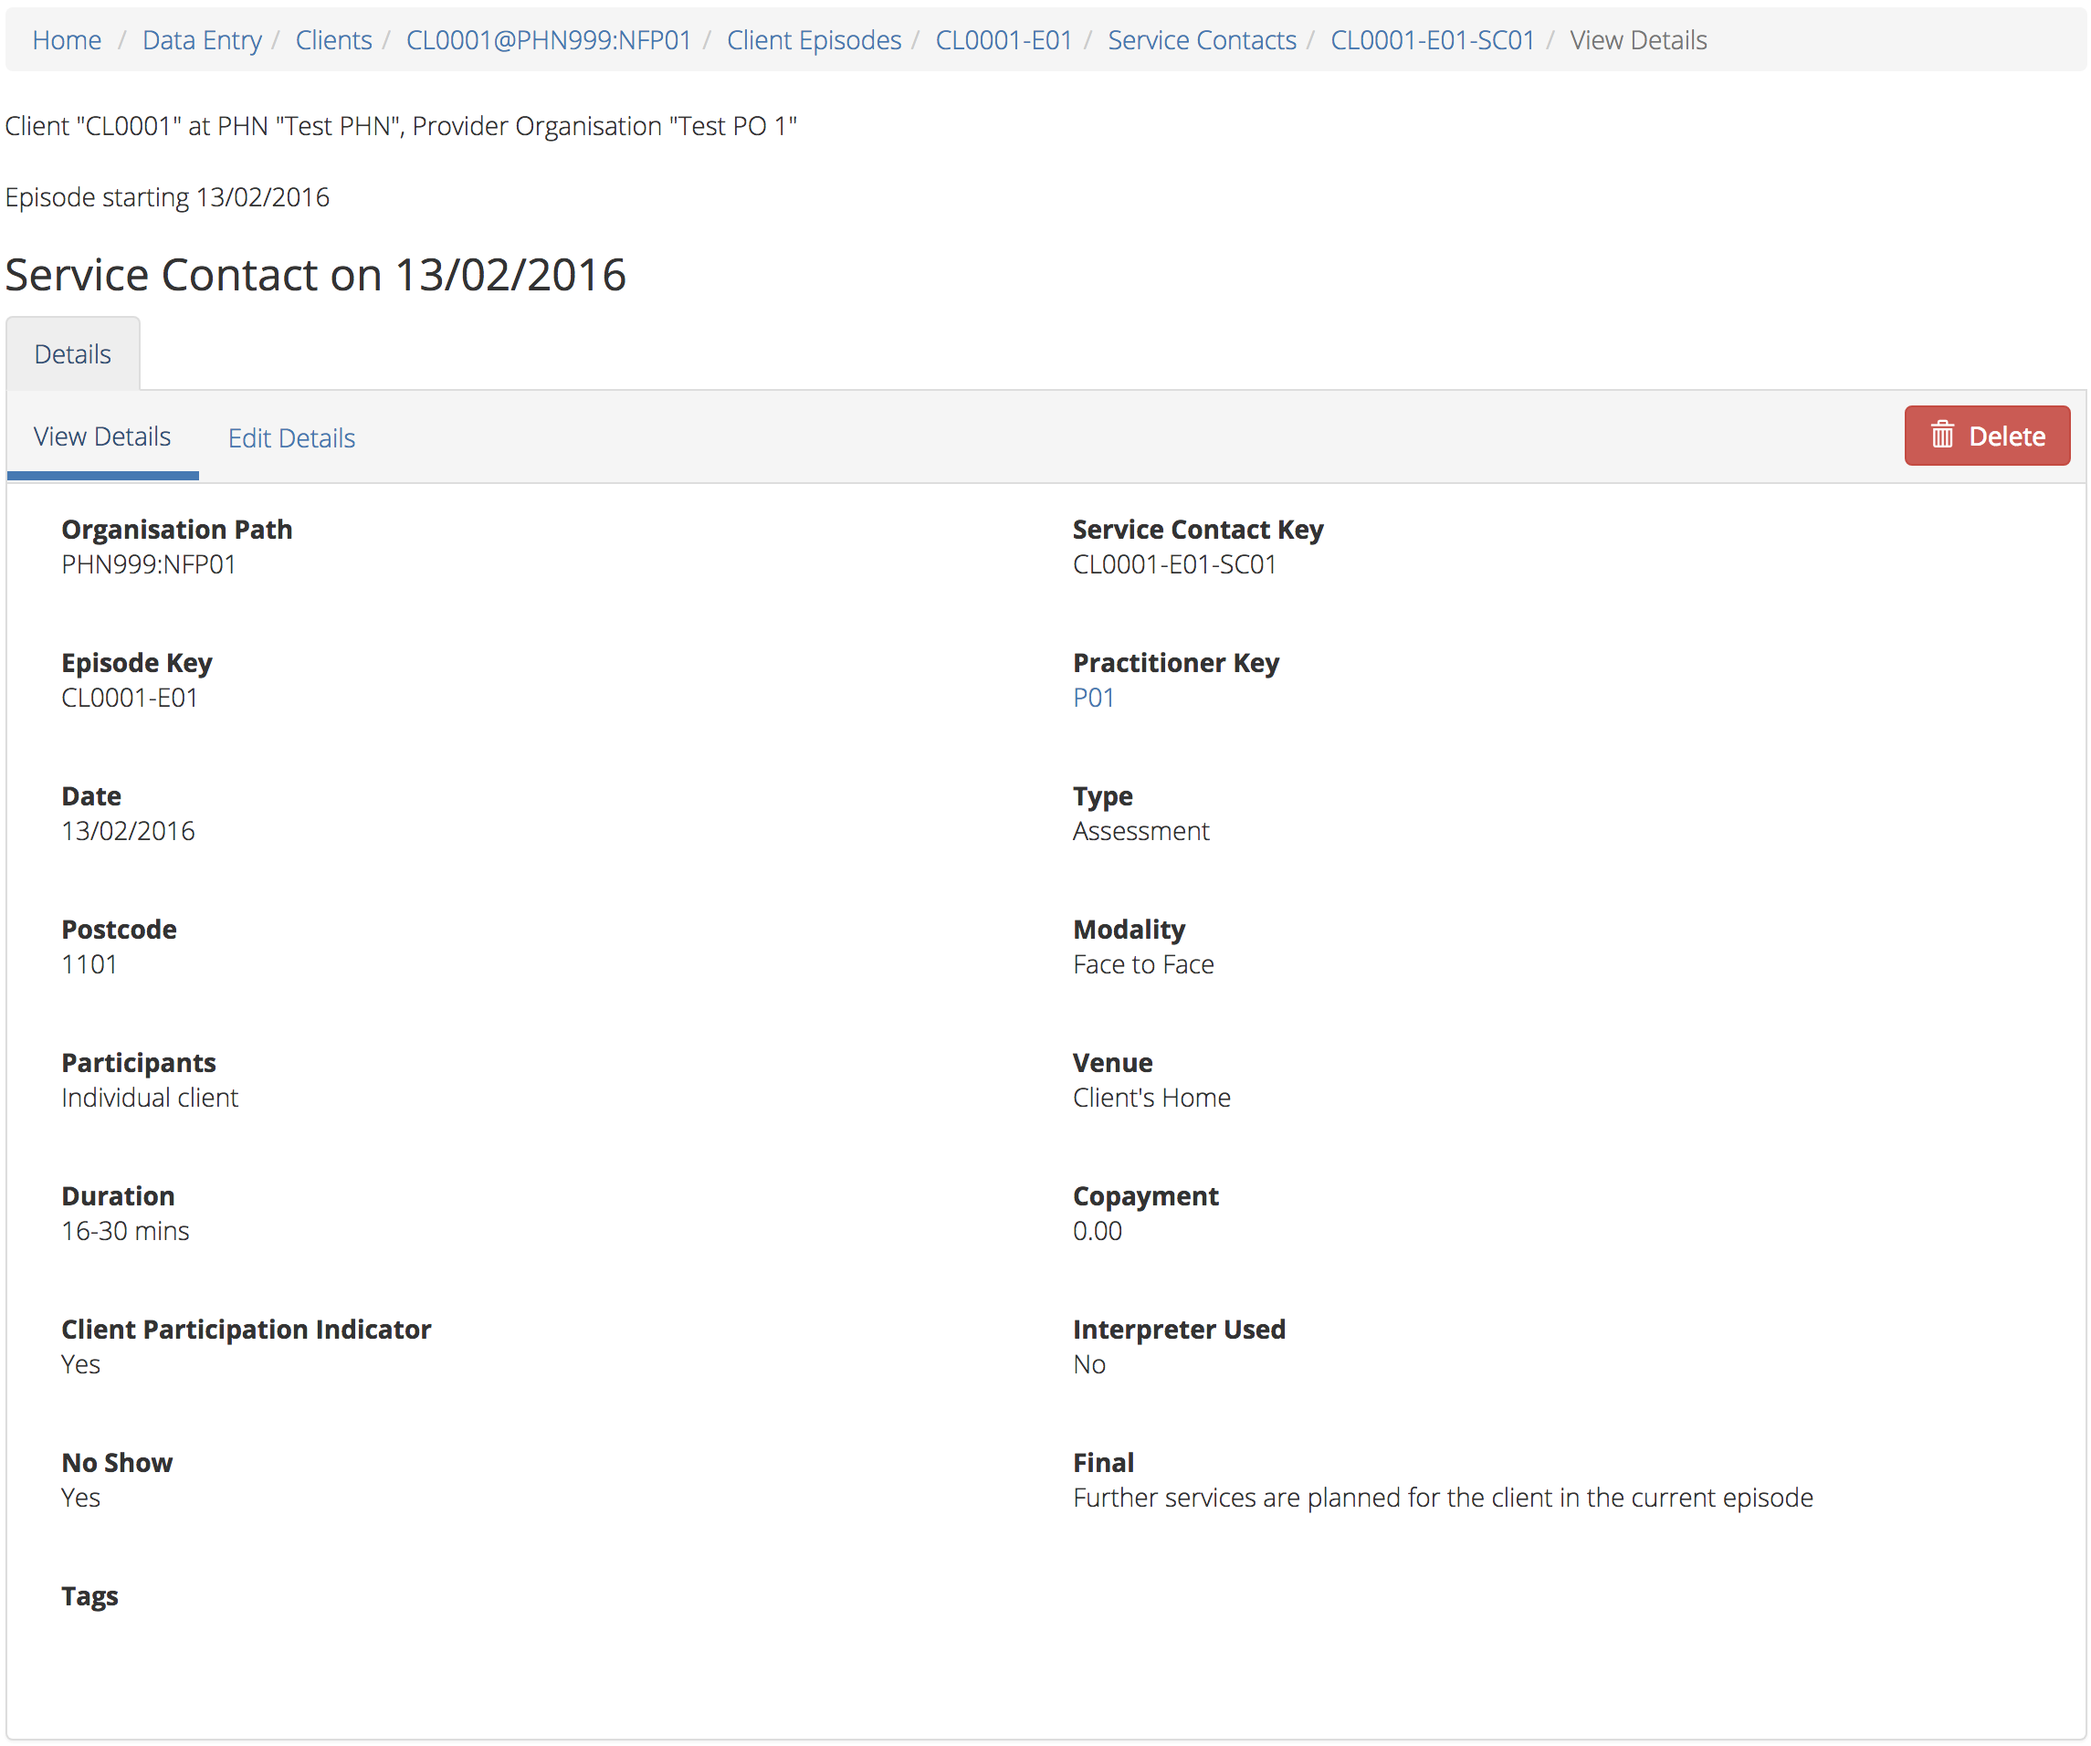
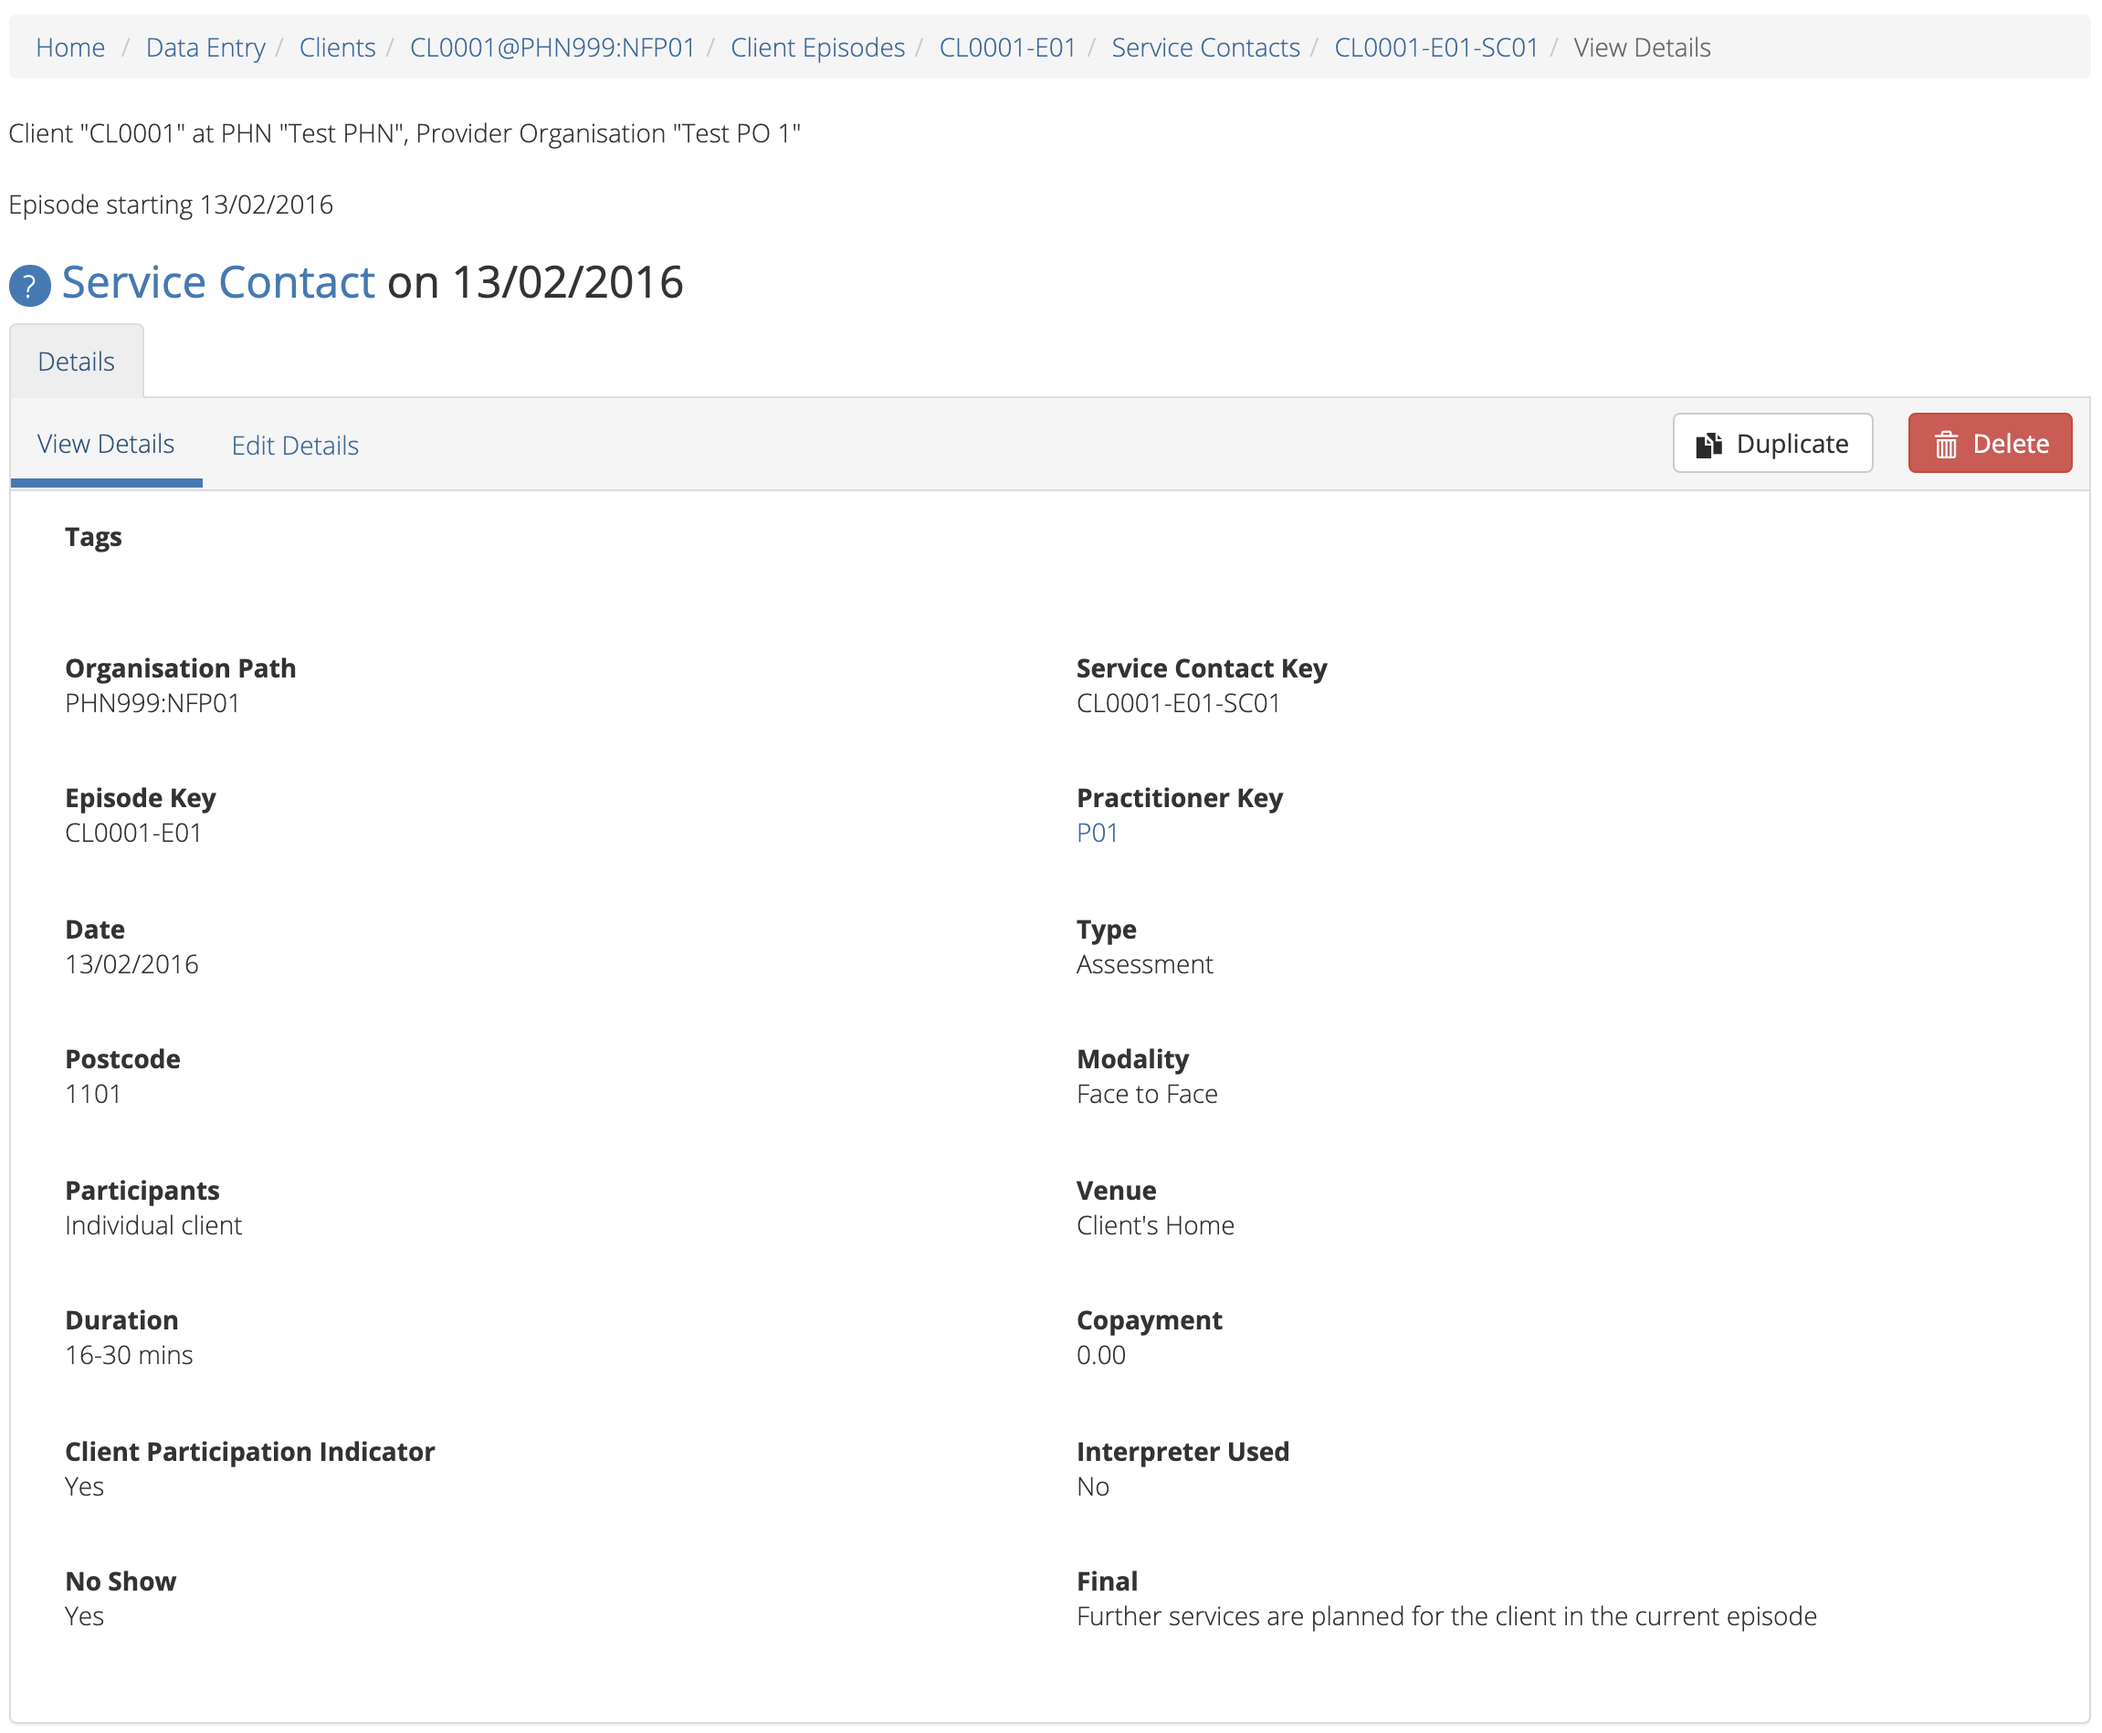
Duplicate a Service Contacts feature
Adding duplicate service contact info and updating the screenshots

diff --git a/doc/data-entry.rst b/doc/data-entry.rst
@@ -572,6 +572,37 @@ If you receive an error message, the data will need to be corrected before the
 record is saved and added to the PMHC MDS.
 See Validation Rules - `Service Contact <http://docs.pmhc-mds.com/en/v1/data-specification/validation-rules.html#service-contact-current-validations>`_.
 
+.. _duplicate-service-contact:
+
+Duplicating a Client's existing Service Contact data
+----------------------------------------------------
+
+To improve the speed of data entry, users can can now duplicate a previously
+recorded service contact. This process creates a new record with a copy of the
+fields recorded in the existing service contact record you have duplicated.
+
+You can duplicate a client's service contacts through the :ref:`view-service-contact`
+available on the Data Entry tab, by following these steps:
+
+1. Once :ref:`view-service-contact`.
+2. Click the "Duplicate this Service Contact" icon next to a record, or open the service contact record and click the 'Duplicate' button.
+4. Complete the Mandatory fields marked with an * and review the pre-filled values. (Specification `Service Contact Data Elements <http://docs.pmhc-mds.com/en/v1/data-specification/data-model-and-specifications.html#service-contact-data-elements>`_)
+
+.. figure:: screen-shots/client-service-contacts-duplicate.png
+   :alt: Client Data Add Service Contact
+
+5. Click the blue 'Save' button. (If you decide not to add this client's episode, you can simply navigate away from this screen)
+
+You will receive confirmation that the Client's service contact details have been added,
+and it will now be displaying these new details in the View service Contact Details tab.
+
+        .. figure:: screen-shots/client-data-saved.png
+           :alt: Client Data Saved Successfully
+
+If you receive an error message, the data will need to be corrected before the
+record is saved and added to the PMHC MDS.
+See Validation Rules - `Service Contact <http://docs.pmhc-mds.com/en/v1/data-specification/validation-rules.html#service-contact-current-validations>`_.
+
 .. _delete-service-contact:
 
 Deleting an Service Contact
